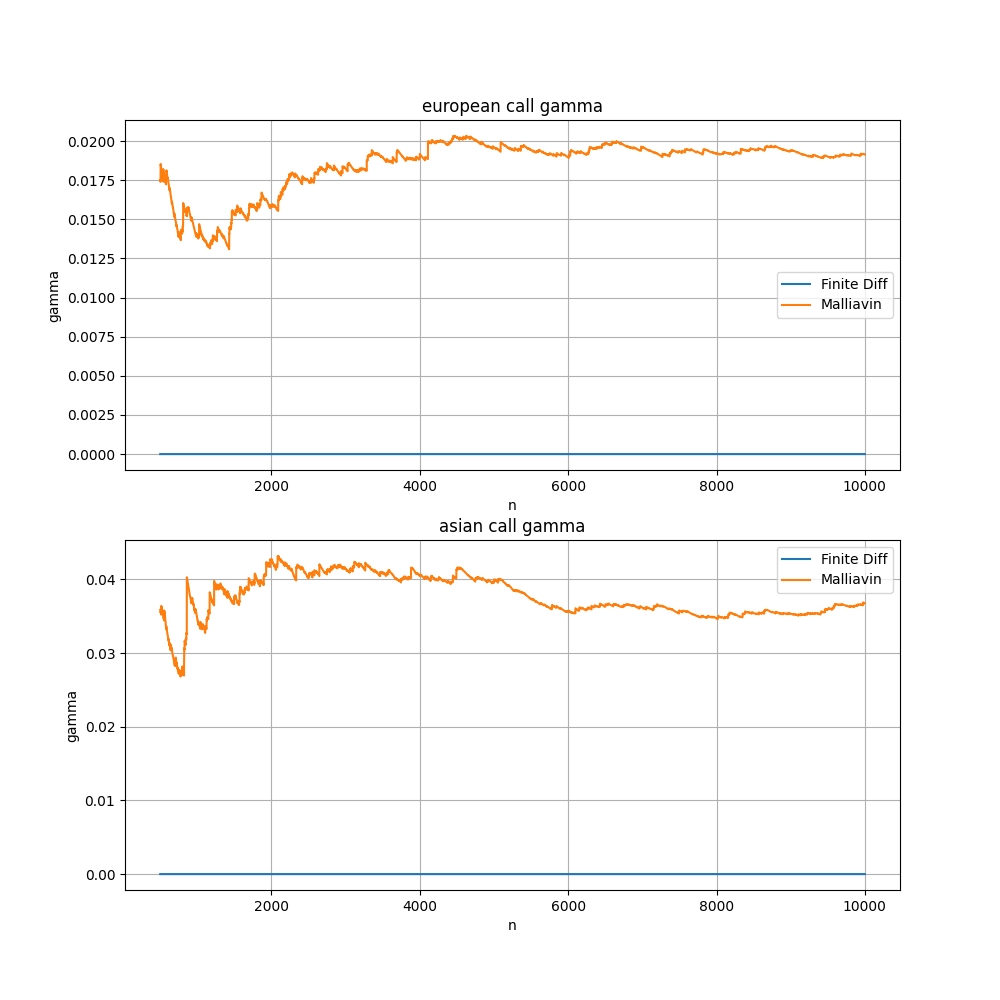
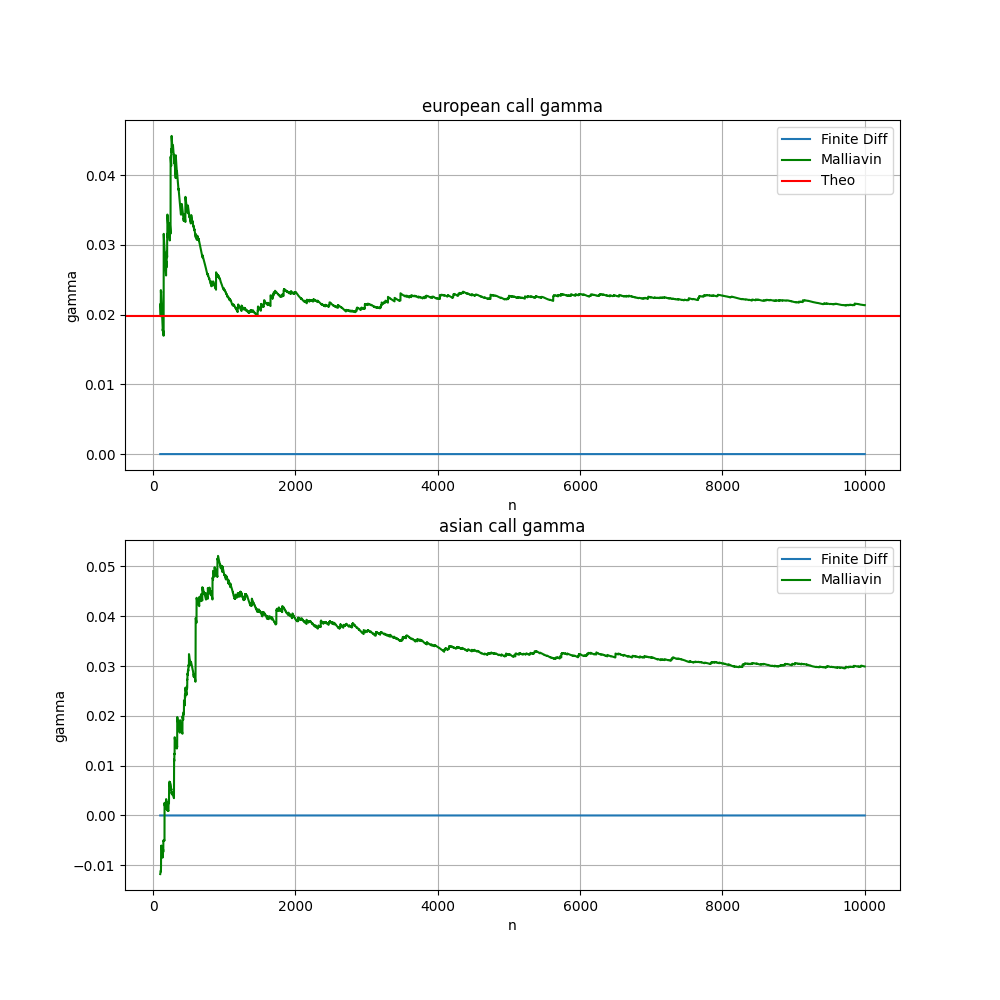
update

diff --git a/draw.py b/draw.py
@@ -4,8 +4,9 @@ Version: 1.0
 Author: SHAO Nuoya
 Date: 2021-12-28 02:05:04
 LastEditors: SHAO Nuoya
-LastEditTime: 2022-01-07 20:18:05
+LastEditTime: 2022-02-06 10:28:00
 '''
+from turtle import color
 import matplotlib.pyplot as plt
 import seaborn as sns
 import numpy as np
@@ -34,24 +35,44 @@ def plot_corr(data1, data2):
 def plot_greek(FD_eur_data, FD_asia_data, M_eur_data, M_asia_data, greek_name):
     plt.figure(figsize=(10, 10))
 
+    # euro option
     plt.subplot(2, 1, 1)
-    plt.plot(range(500, len(FD_eur_data)),
-             FD_eur_data[500:],
+
+    # Finite difference method
+    plt.plot(range(100, len(FD_eur_data)),
+             FD_eur_data[100:],
              label='Finite Diff')
-    plt.plot(range(500, len(M_eur_data)), M_eur_data[500:], label='Malliavin')
+
+    # Malliavin method
+    plt.plot(range(100,
+                   len(M_eur_data) - 1),
+             M_eur_data[100:-1],
+             label='Malliavin',
+             color='green')
+
+    # Theoretical value
+    plt.axhline(y=M_eur_data[-1], color='red', label='Theo')
+
     plt.title(f"european call {greek_name}")
     plt.xlabel('n')
     plt.ylabel(greek_name)
     plt.grid()
     plt.legend()
 
+    # asian option
     plt.subplot(2, 1, 2)
-    plt.plot(range(500, len(FD_asia_data)),
-             FD_asia_data[500:],
+
+    # Finite difference method
+    plt.plot(range(100, len(FD_asia_data)),
+             FD_asia_data[100:],
              label='Finite Diff')
-    plt.plot(range(500, len(M_asia_data)),
-             M_asia_data[500:],
-             label='Malliavin')
+
+    # Malliavin method
+    plt.plot(range(100,
+                   len(M_asia_data) - 1),
+             M_asia_data[100:-1],
+             label='Malliavin',
+             color='green')
     plt.title(f"asian call {greek_name}")
     plt.xlabel('n')
     plt.ylabel(greek_name)

diff --git a/utility.cpp b/utility.cpp
@@ -18,6 +18,9 @@ float Var(const vector<float> vec) {
     return var / N;
 }
 
+double normalCDF(double value) { return 0.5 * erfc(-value * sqrt(0.5)); };
+double normalPDF(double value) { return exp(-pow(value, 2) / 2) / sqrt(2 * PI); };
+
 //operations for vector
 vector<float> multiply(const vector<float> v, float d) {
     vector<float> res;
@@ -26,6 +29,10 @@ vector<float> multiply(const vector<float> v, float d) {
     }
     return res;
 };
+float Integral(vector<float> v, float step) {
+	return Sum(v) * step;
+};
+
 
 float generate_N01() {
 	unsigned seed = chrono::system_clock::now().time_since_epoch().count();
@@ -39,7 +46,7 @@ vector<float> generate_St(float S0, float r, float sigma, float I, float h) {
 	vector<float> S;
 	S.push_back(S0);
 	float t, s, s_pre, dw;
-	float b = r - pow(sigma, 2) / 2;
+
 	for (int i = 1; i < I; i++) {
 		t = i * h;
 		s_pre = S.back();
@@ -64,20 +71,28 @@ float payoff(string option_type, vector<float> S, float K) {
 
 //analytical Greeks
 //no analytical solution for arithmetic asian option
-float greeks(string greek_name, string option_type = "EUR_CALL") {
+float greeks(string greek_name,float* par, string option_type = "EUR_CALL") {
 	float greek = 0;
+	float S0 = par[0];
+	float K = par[1];
+	float r = par[2];
+	float sigma = par[3];
+	float T = par[4];
+	float d1;
+
 	if (option_type == "EUR_CALL") {
+		d1 = (log(S0 / K) + (r + pow(sigma, 2) / 2) * T) / (sigma * sqrt(T));
 		if (greek_name == "delta") {
-			greek = 0;
+			greek = normalCDF(d1);
 		}
 		else if (greek_name == "gamma") {
-			greek = 0;
+			greek = normalPDF(d1)/(S0*sigma*sqrt(T));
 		}
 		else if (greek_name == "vega") {
-			greek = 0;
+			greek = S0 * sqrt(T) * normalPDF(d1);
 		}
 		else if (greek_name == "rho") {
-			greek = 0;
+			greek = K * T * normalPDF(d1 - sigma * sqrt(T));
 		}
 	}
 	else if (option_type == "") {

diff --git a/Malliavin.cpp b/Malliavin.cpp
@@ -50,7 +50,7 @@ vector<float> Malliavin::delta(string option_type, int N) {
 			d_sum += actualised_payoff * WT / (S0 * sigma * T);
 		}
 		else if (option_type == "ASIA_CALL") {
-			float Integral_S = Sum(S) * h; //integration of S from 0 to T
+			float Integral_S = Integral(S, h); //integration of S from 0 to T
 			float actualised_payoff = exp(-r * T) * payoff(option_type, S, K);
 			d_sum += actualised_payoff * (2 * (ST - S0) / (S0 * sigma2 * Integral_S) + (1 - 2 * r / sigma2) / S0);
 		}
@@ -75,7 +75,7 @@ vector<float> Malliavin::gamma(string option_type, int N) {
 			g_sum += actualised_payoff * (pow(WT, 2) / (sigma * T) - WT - 1 / sigma) / (pow(S0, 2) * sigma * T);
 		}
 		else if (option_type == "ASIA_CALL") {
-			float Integral_S = Sum(S) * h; //integration of S from 0 to T
+			float Integral_S = Integral(S, h); //integration of S from 0 to T
 			float Upper_ST = Integral_S / T; //integration over time
 			float actualised_payoff = exp(-r * T) * payoff(option_type, S, K);
 			g_sum += 4 * actualised_payoff * (pow(ST - S0, 2) + b * r * pow(T * Upper_ST, 2) - 2 * r * T * ST * Upper_ST + 2 * b * T * S0 * Upper_ST) / pow(sigma2 * S0 * T * Upper_ST, 2);

diff --git a/utility.h b/utility.h
@@ -6,13 +6,18 @@
 #include <iomanip>
 using namespace std;
 
+#define PI acos(-1)
+
 //statistics
 float Sum(vector<float> vec);
 float Mean(vector<float> vec);
 float Var(vector<float> vec);
+double normalCDF(double value);
+double normalPDF(double value);
 
 //operations for vector
 vector<float> multiply(vector<float> v, float d);
+float Integral(vector<float> v, float step);
 
 //simulation of spot
 float generate_N01();
@@ -22,7 +27,7 @@ vector<float> generate_St(float S0, float r, float sigma, float I, float h);
 float payoff(string option_type, vector<float> S, float K);
 
 //analytical values of greeks
-float greeks(string greek_name, string option_type);
+float greeks(string greek_name, float* par, string option_type);
 
 //output
 void to_txt(vector<float> array, string filename);
